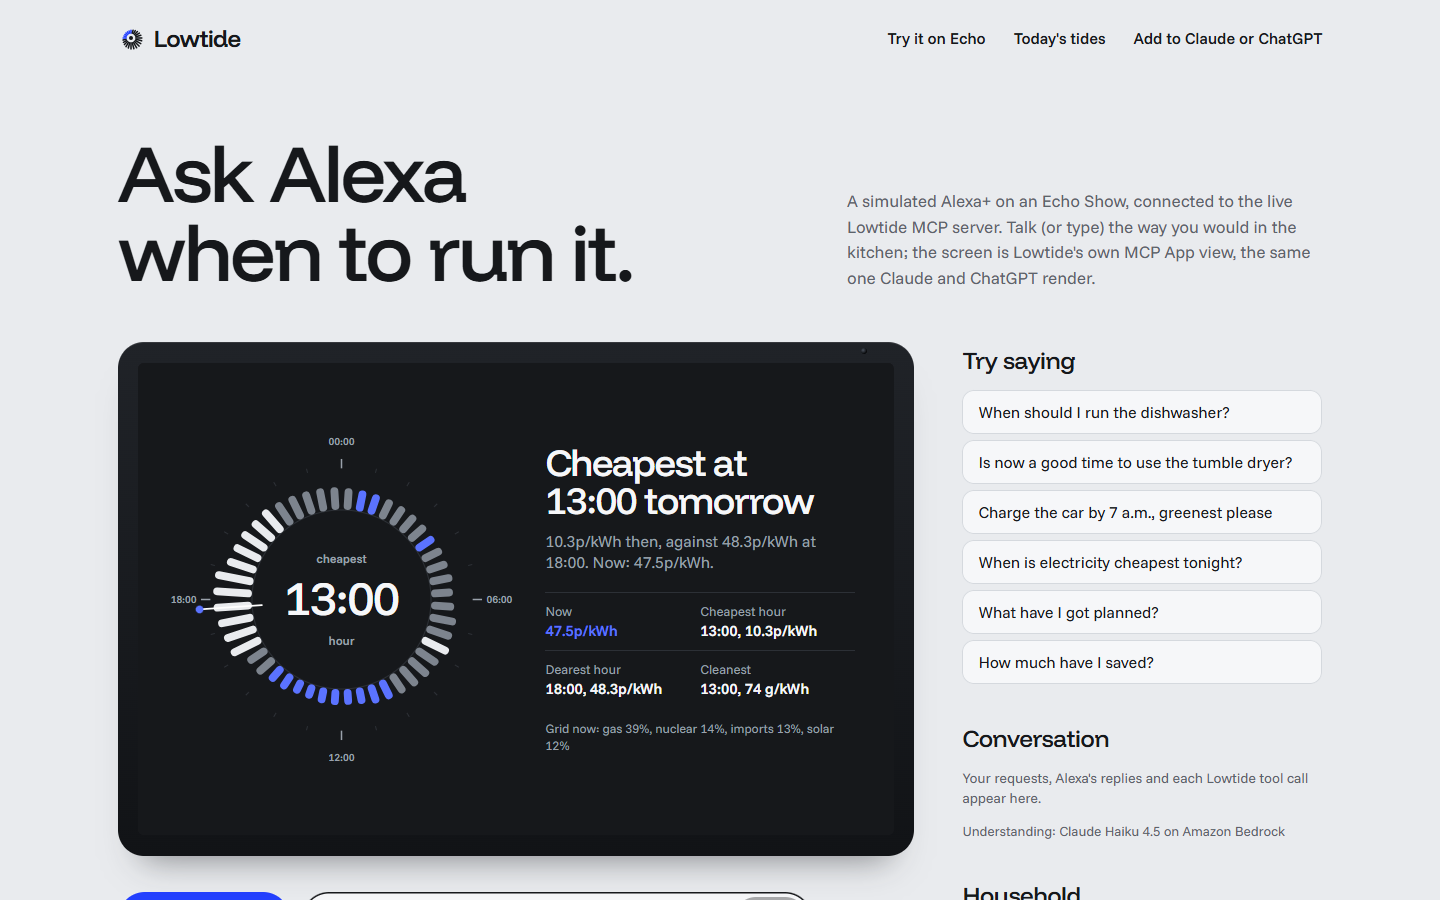
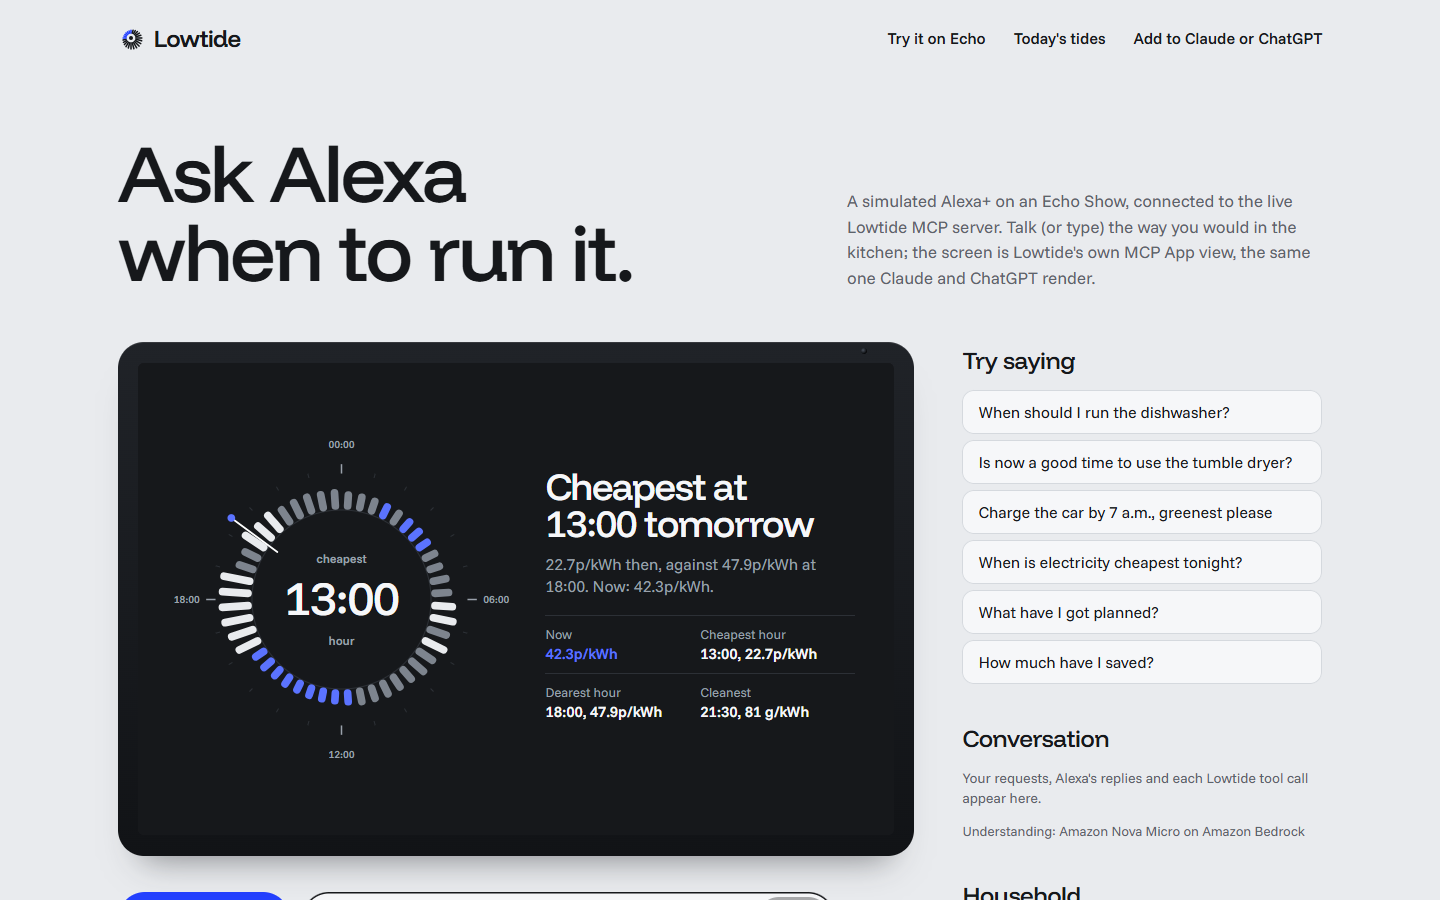
README: the quoted exchange and Echo screenshots from Amazon Nova Micro

diff --git a/README.md b/README.md
@@ -32,11 +32,11 @@ The question is always the same, and it's asked in the kitchen with your hands f
 <img src="docs/screens/echo-scheduled.png" alt="Simulated Echo Show: Alexa schedules the dishwasher for 01:00 and shows the day's prices on a dial" width="100%">
 
 > **You:** Alexa, when should I run the dishwasher? It needs to be done by seven.
-> **Alexa:** Run it at one in the morning and you'll save 17 pence compared to now. Shall I save that?
+> **Alexa:** The dishwasher should run tonight at 1 a.m. It costs about 23 pence, 7 pence less than starting now. Would you like to save it?
 > **You:** Yes please.
-> **Alexa:** Saved. Run the dishwasher tonight at one a.m.
+> **Alexa:** The dishwasher is scheduled to run tonight at 1 a.m. That saves 7 pence.
 
-That exchange is real: a model on Amazon Bedrock (now Amazon Nova Micro) calling Lowtide's MCP tools, with London's live Agile prices. The answer comes back twice: **a sentence to speak**, and **an MCP App view for the Echo Show screen**, the next 24 hours on a dial with the run marked on the rim.
+That exchange is real: Amazon Nova Micro on Amazon Bedrock, calling Lowtide's MCP tools, with London's live Agile prices. The answer comes back twice: **a sentence to speak**, and **an MCP App view for the Echo Show screen**, the next 24 hours on a dial with the run marked on the rim.
 
 - **Plans any shiftable load** (dishwasher, washing machine, tumble dryer, EV, immersion heater, home battery), with a deadline ("done by seven"), an earliest start ("not before ten"), and a goal: cheapest, greenest, or both.
 - **Remembers the household:** saved runs and money saved, behind a private household link (no account; a name is optional and never required).
